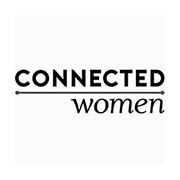
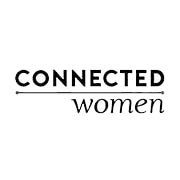
Updated about

Changed region(s): [[0.0833, 0.3611, 0.9167, 0.6389], [0.8889, 0.3889, 0.9167, 0.4722]]

diff --git a/src/Components/About/About.css b/src/Components/About/About.css
@@ -91,9 +91,16 @@
 .Logo__box img {
   grid-area: "logo";
   display: block;
-  max-width: 65px;
+  max-width: 90px;
 }
 
+@media (max-width: 800px) {
+  .Logo__box img {
+    grid-area: "logo";
+    display: block;
+    max-width: 80px;
+  }
+}
 @media (max-width: 620px) {
   .MissionVision__cont {
     flex-direction: column;
@@ -111,7 +118,6 @@
   }
 
   .Logo__cont {
-    display: grid;
     grid-template-areas:
       "logo logo logo"
       "logo logo logo"
@@ -119,14 +125,7 @@
       "logo logo logo"
       "logo logo logo"
       "logo logo logo";
-    grid-gap: 1rem;
     margin: 0 0.5rem;
-  }
-
-  .Logo__box img {
-    grid-area: "logo";
-    display: block;
-    max-width: 55px;
   }
 }
 

diff --git a/src/Components/Navigation/NavigationMain/NavigationMain.css b/src/Components/Navigation/NavigationMain/NavigationMain.css
@@ -25,7 +25,6 @@
 .NavLogo__cont span {
   font-family: "Sacramento";
   font-size: 25px;
-  font-weight: 0;
   font-style: italic;
   text-shadow: 1px 0.5px 4px #ca7919;
   color: black;
@@ -49,7 +48,6 @@
   text-decoration: none;
   font-family: "Montserrat", sans-serif;
   font-size: 12px;
-  font-weight: bold;
   text-transform: uppercase;
   letter-spacing: 2px;
   color: black;

diff --git a/src/Components/Navigation/NavigationMobile/NavigationMobile.css b/src/Components/Navigation/NavigationMobile/NavigationMobile.css
@@ -32,7 +32,6 @@
   padding: 15px 0;
   font-family: "Montserrat", sans-serif;
   font-size: 12px;
-  font-weight: bold;
   text-transform: uppercase;
   letter-spacing: 2px;
   color: black;
